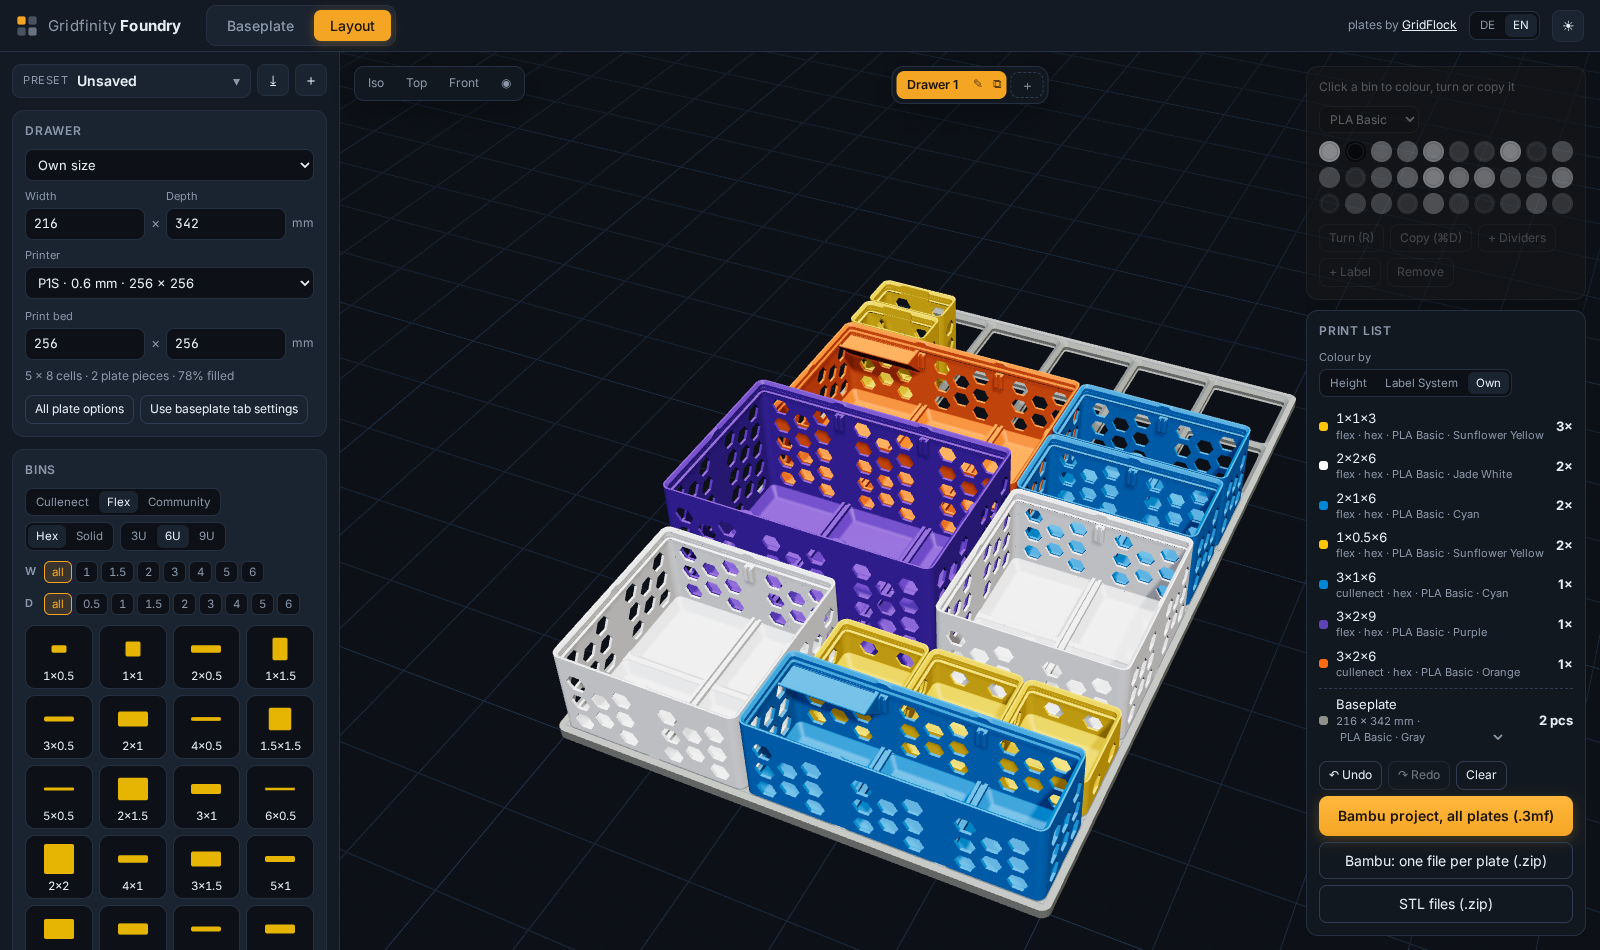
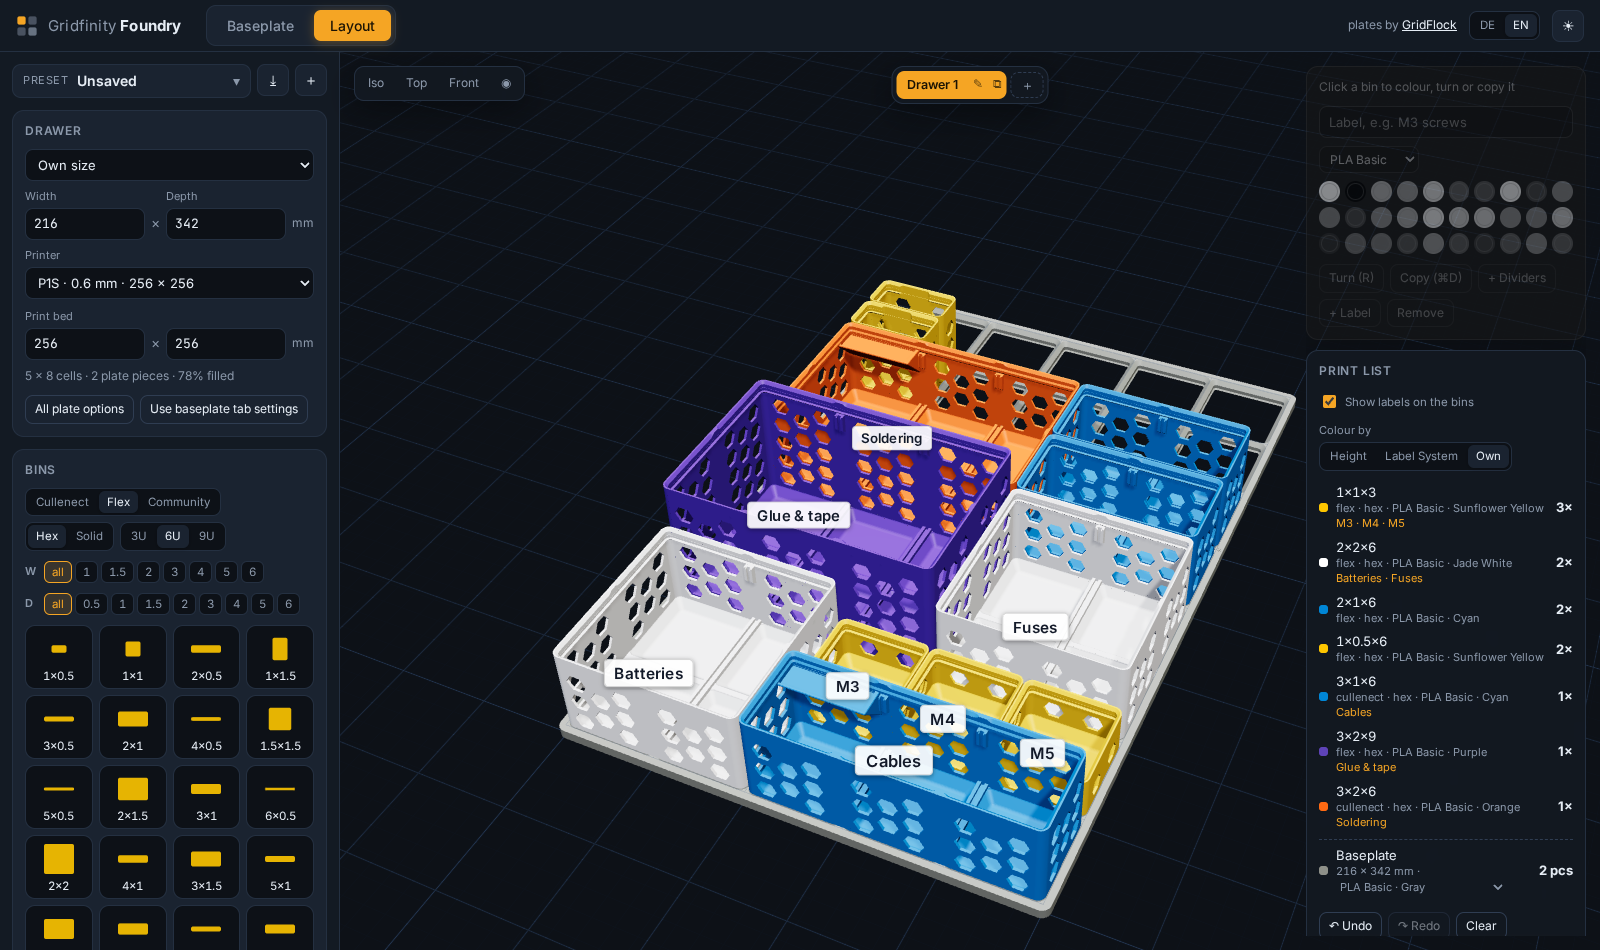
Bin labels: a label per bin, shown on the bin in 3D and in the print list

diff --git a/web/src/components/LayoutTab.tsx b/web/src/components/LayoutTab.tsx
@@ -1,5 +1,6 @@
 import { useEffect, useMemo, useRef, useState } from "react";
 import { useThree, type ThreeEvent } from "@react-three/fiber";
+import { Html } from "@react-three/drei";
 import * as THREE from "three";
 import { api, bambuProject, download, fileName, type BinFile, type ParamValue } from "../api";
 import { grid, PITCH, type Grid } from "../lib/grid";
@@ -253,6 +254,7 @@ export function LayoutTab() {
   const fn = (f: string) => filamentName(f, lang);
   const [saved, setSaved] = useState(() => JSON.stringify(toProject(DEFAULT_LAYOUT).drawers.map((d) => d.layout)));
   const [scope, setScope] = useState<"drawer" | "all">("drawer");
+  const [showLabels, setShowLabels] = useState(true);
   const [armed, setArmed] = useState<string | null>(null);
   const [armedRot, setArmedRot] = useState<0 | 1>(0);
   const [hover, setHover] = useState<[number, number] | null>(null);
@@ -413,14 +415,15 @@ export function LayoutTab() {
     [scope, drawers, active, layout], // eslint-disable-line react-hooks/exhaustive-deps
   );
   const bom = useMemo(() => {
-    const m = new Map<string, { file: string; count: number; info?: BinFile; color: string; filament: string }>();
+    const m = new Map<string, { file: string; count: number; info?: BinFile; color: string; filament: string; labels: string[] }>();
     for (const d of inScope)
       for (const b of d.layout.bins) {
         const info = lib.get(b.file);
         const [color, filament] = binColor(b, info, d.layout.colorMode);
         const k = `${b.file}|${color}`;
-        const e = m.get(k) ?? { file: b.file, count: 0, info, color, filament };
+        const e = m.get(k) ?? { file: b.file, count: 0, info, color, filament, labels: [] };
         e.count++;
+        if (b.label) e.labels.push(b.label);
         m.set(k, e);
       }
     return [...m.values()].sort((a, b) => b.count - a.count);
@@ -677,6 +680,20 @@ export function LayoutTab() {
             const [w, d] = fp(selInfo, sel.rot);
             return <SelectionFrame x={sel.x} y={sel.y} w={w} d={d} z={top - SEAT} h={7 * selInfo.h + 4} />;
           })()}
+          {showLabels &&
+            layout.bins.map((b) => {
+              const info = lib.get(b.file);
+              if (!b.label || !info || drag?.id === b.id) return null;
+              const [w] = fp(info, b.rot);
+              // on the front edge of the bin, at its top
+              return (
+                <Html key={`label-${b.id}`} position={[(b.x + w / 2) * PITCH, b.y * PITCH + 7, top - SEAT + 7 * info.h + 5]} center zIndexRange={[10, 0]} distanceFactor={420}>
+                  <div className={`bin-label ${b.id === selected ? "on" : ""}`} onPointerDown={(e) => e.stopPropagation()} onClick={() => set({ selected: b.id })}>
+                    {b.label}
+                  </div>
+                </Html>
+              );
+            })}
         </Scene>
         <ViewButtons onView={(view) => fitView(controls.current, frameBox, view)} name={layoutPreset} fallback="layout" />
         <DrawerTabs />
@@ -696,6 +713,19 @@ export function LayoutTab() {
                 <span>{t("Click a bin to colour, turn or copy it")}</span>
               )}
             </div>
+            <input
+              key={sel?.id ?? "none"}
+              className="label-input"
+              disabled={!sel}
+              placeholder={t("Label, e.g. M3 screws")}
+              defaultValue={sel?.label ?? ""}
+              maxLength={40}
+              onKeyDown={(e) => e.key === "Enter" && (e.target as HTMLInputElement).blur()}
+              onBlur={(e) => {
+                const v = e.target.value.trim();
+                if (sel && v !== (sel.label ?? "")) editBins((b) => b.map((x) => (x.id === sel.id ? { ...x, label: v || undefined } : x)));
+              }}
+            />
             <div className="filament-row">
               <select value={material} disabled={!sel} onChange={(e) => setMaterial(e.target.value)}>
                 {Object.keys(BAMBU).map((m) => (
@@ -738,6 +768,9 @@ export function LayoutTab() {
                 <button className={scope === "all" ? "on" : ""} onClick={() => setScope("all")}>{t("All drawers")} ({drawers.length})</button>
               </div>
             )}
+            <label className="labels-toggle">
+              <input type="checkbox" checked={showLabels} onChange={(e) => setShowLabels(e.target.checked)} /> {t("Show labels on the bins")}
+            </label>
             <div className="colour-by">
               <span>{t("Colour by")}</span>
               <div className="seg small">
@@ -747,12 +780,13 @@ export function LayoutTab() {
               </div>
             </div>
             {bom.length === 0 && allParts.length === 0 && <div className="empty">{t("No bins yet")}</div>}
-            {bom.map(({ file, count, info, color, filament }) => (
+            {bom.map(({ file, count, info, color, filament, labels }) => (
               <div key={`${file}|${color}`} className="bom-row">
                 <span className="dot" style={{ background: color }} />
                 <span className="bom-name">
                   {info ? `${info.name ? info.name + " · " : ""}${info.w}×${info.d}×${info.h}` : file}
                   <small>{info ? `${t(info.system ?? "")} · ${t(info.kind ?? "")}` : ""}{filament ? ` · ${fn(filament)}` : ""}</small>
+                  {labels.length > 0 && <small className="bom-labels">{labels.join(" · ")}</small>}
                 </span>
                 <b>{count}×</b>
               </div>

diff --git a/web/src/styles.css b/web/src/styles.css
@@ -326,3 +326,14 @@ code, .num { font-family: "JetBrains Mono", ui-monospace, monospace; }
 .furniture { display: flex; gap: 6px; align-items: center; margin-bottom: 8px; }
 .furniture select { flex: 1; }
 .scope { margin: 2px 0 6px; }
+.bin-label {
+  background: rgba(255, 255, 255, 0.92); color: #111827; border-radius: 4px; padding: 2px 8px; font-size: 13px; font-weight: 600;
+  white-space: nowrap; box-shadow: 0 1px 4px rgba(0, 0, 0, 0.35); border: 1px solid rgba(0, 0, 0, 0.15); cursor: pointer;
+  font-family: Inter, system-ui, sans-serif; letter-spacing: 0.1px;
+}
+.bin-label.on { outline: 2px solid var(--accent); }
+.label-input { width: 100%; border: 1px solid var(--line); background: var(--bg); border-radius: 8px; padding: 6px 9px; margin-bottom: 8px; font-size: 13px; }
+.label-input:focus { outline: 2px solid var(--accent-soft); border-color: var(--accent); }
+.bom-labels { color: var(--accent) !important; }
+.labels-toggle { display: flex; align-items: center; gap: 6px; font-size: 11.5px; color: var(--muted); margin: 2px 0 6px; cursor: pointer; }
+.labels-toggle input { accent-color: var(--accent); }

diff --git a/web/src/lib/i18n.ts b/web/src/lib/i18n.ts
@@ -134,6 +134,8 @@ const DE: Record<string, string> = {
   "depth measured 423, width as the 5-drawer ALEX": "Tiefe gemessen 423, Breite wie beim ALEX mit 5 Schubladen",
   "IKEA's inside size": "Innenmaß laut IKEA",
   "approximate; measure (MALM generations differ)": "ungefähr; nachmessen (MALM-Generationen unterscheiden sich)",
+  "Label, e.g. M3 screws": "Beschriftung, z. B. M3-Schrauben",
+  "Show labels on the bins": "Beschriftungen auf den Boxen zeigen",
   // parts
   Divider: "Trenner",
   "Tab divider": "Trenner mit Lasche",

diff --git a/web/src/store.ts b/web/src/store.ts
@@ -12,6 +12,7 @@ export interface Placed {
   rot: 0 | 1;       // 1: turned by 90 deg
   color?: string;
   filament?: string;  // its Bambu colour, e.g. "PLA Basic · Jade White"
+  label?: string;     // what goes in it ("M3 screws"), shown on the bin
 }
 
 export interface Layout {

diff --git a/README.md b/README.md
@@ -11,7 +11,7 @@ onto it, and download everything as STL files or as a Bambu Studio project with 
   fillers, walls, screws, lightweight mode, …), rendered live by native OpenSCAD. The plate is split into pieces that fit
   your print bed; explode them, see each piece's size, download all pieces or one.
 - **Layout**: enter your drawer size and pick your printer, then click or drag bins from the library onto the plate. Bins
-  snap to the 42 mm grid (half-cell bins to half cells), never overlap, and can be turned, moved, copied and coloured
+  snap to the 42 mm grid (half-cell bins to half cells), never overlap, and can be turned, moved, copied, coloured and labelled ("M3 screws"; the label shows on the bin and in the print list)
   (Bambu Lab filament colours, PLA Basic/Matte, PETG). Undo and redo, keyboard shortcuts, camera views.
 - **Drawer planner**: a project holds several drawers, each with its own size and layout (tabs above the 3D view).
   Common furniture is built in (IKEA ALEX with 5 or 9 drawers, HELMER, MALM 80) and sets the inner size, or all its
